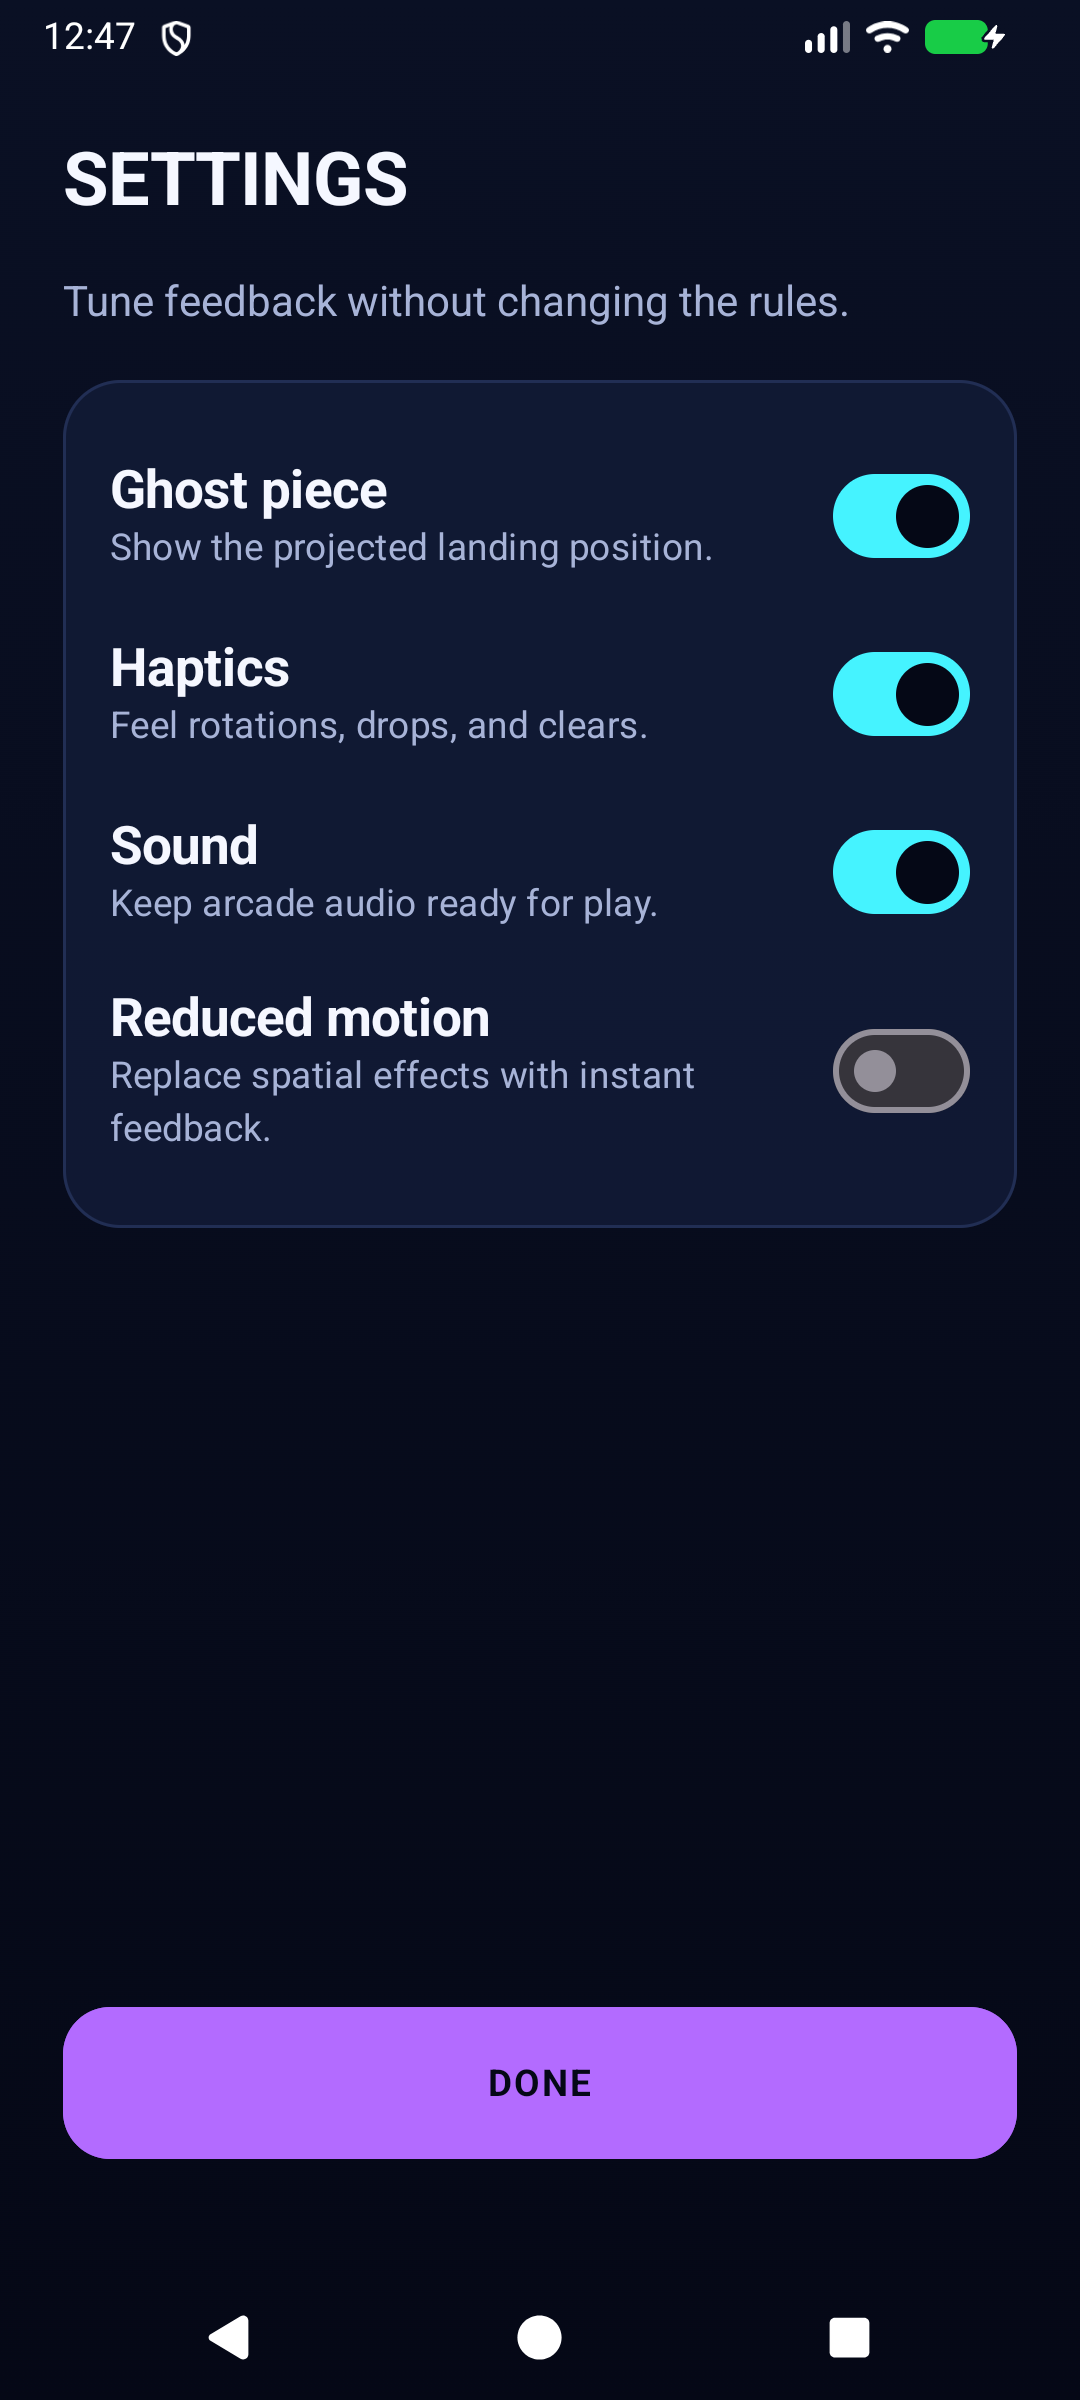
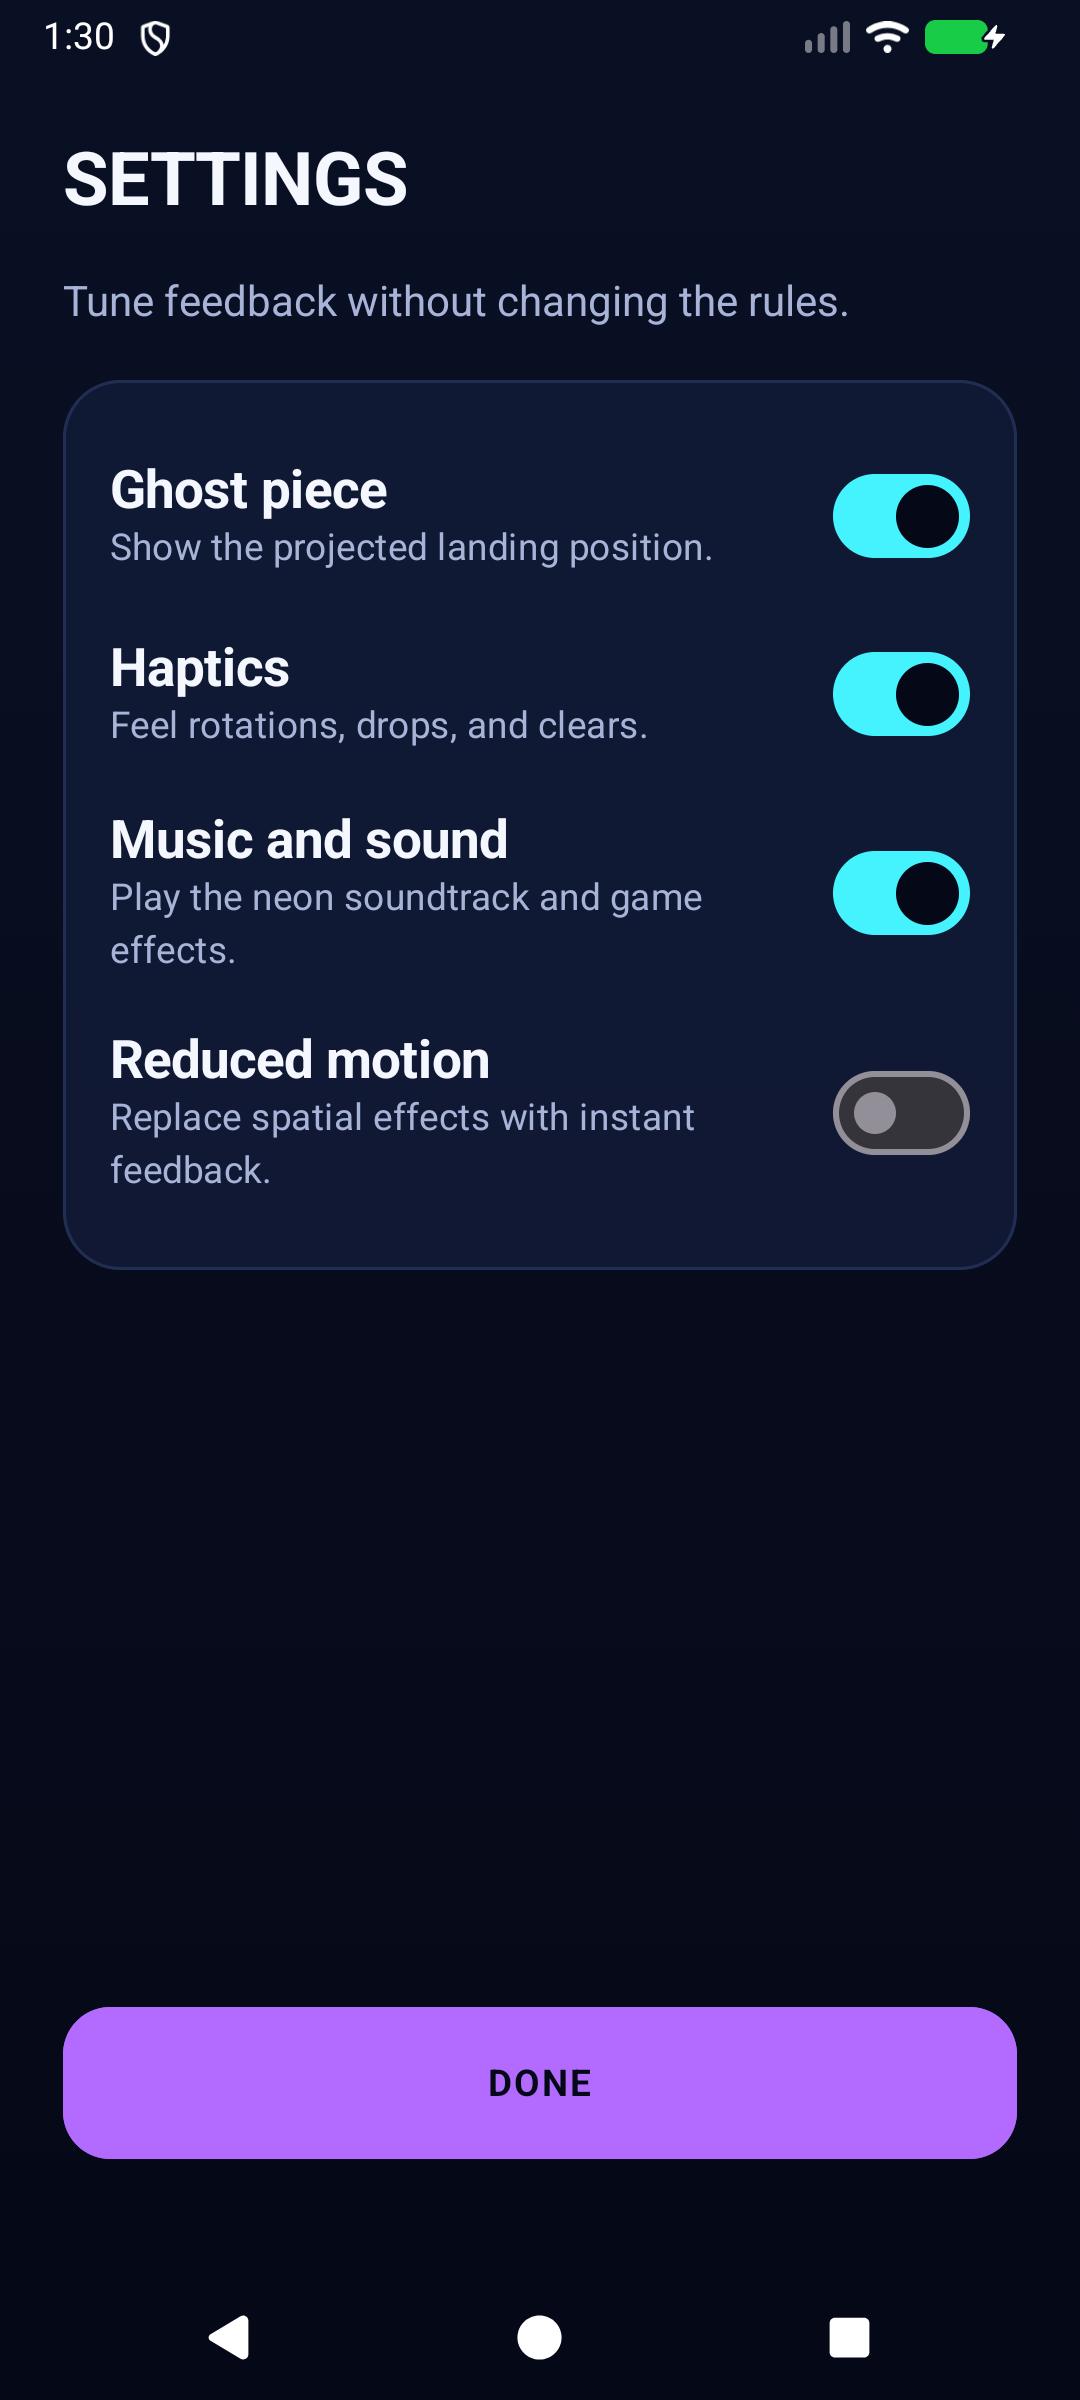
feat: improve game controls and add soundtrack

diff --git a/app/src/main/java/com/himugupta/neontetris/ui/game/GameScreen.kt b/app/src/main/java/com/himugupta/neontetris/ui/game/GameScreen.kt
@@ -14,6 +14,7 @@ import androidx.compose.animation.fadeOut
 import androidx.compose.animation.scaleIn
 import androidx.compose.animation.scaleOut
 import androidx.compose.foundation.Canvas
+import androidx.compose.foundation.BorderStroke
 import androidx.compose.foundation.background
 import androidx.compose.foundation.border
 import androidx.compose.foundation.gestures.detectDragGestures
@@ -34,6 +35,17 @@ import androidx.compose.foundation.layout.safeDrawingPadding
 import androidx.compose.foundation.layout.size
 import androidx.compose.foundation.layout.width
 import androidx.compose.foundation.shape.RoundedCornerShape
+import androidx.compose.material.icons.Icons
+import androidx.compose.material.icons.rounded.ArrowBack
+import androidx.compose.material.icons.rounded.ArrowDownward
+import androidx.compose.material.icons.rounded.ArrowForward
+import androidx.compose.material.icons.rounded.Pause
+import androidx.compose.material.icons.rounded.RotateLeft
+import androidx.compose.material.icons.rounded.RotateRight
+import androidx.compose.material.icons.rounded.VerticalAlignBottom
+import androidx.compose.material3.Button
+import androidx.compose.material3.ButtonDefaults
+import androidx.compose.material3.Icon
 import androidx.compose.material3.MaterialTheme
 import androidx.compose.material3.Text
 import androidx.compose.runtime.Composable
@@ -53,7 +65,7 @@ import androidx.compose.ui.graphics.Brush
 import androidx.compose.ui.graphics.Color
 import androidx.compose.ui.graphics.drawscope.DrawScope
 import androidx.compose.ui.graphics.drawscope.Stroke
-import androidx.compose.ui.graphics.drawscope.translate
+import androidx.compose.ui.graphics.vector.ImageVector
 import androidx.compose.ui.input.pointer.pointerInput
 import androidx.compose.ui.hapticfeedback.HapticFeedbackType
 import androidx.compose.ui.platform.LocalHapticFeedback
@@ -66,10 +78,10 @@ import androidx.lifecycle.LifecycleEventObserver
 import androidx.lifecycle.compose.LocalLifecycleOwner
 import androidx.lifecycle.compose.collectAsStateWithLifecycle
 import androidx.lifecycle.viewmodel.compose.viewModel
+import com.himugupta.neontetris.audio.GameMusicPlayer
 import com.himugupta.neontetris.core.game.BoardHeight
 import com.himugupta.neontetris.core.game.BoardWidth
 import com.himugupta.neontetris.core.game.CellPosition
-import com.himugupta.neontetris.core.game.FallingPiece
 import com.himugupta.neontetris.core.game.GameAction
 import com.himugupta.neontetris.core.game.GameState
 import com.himugupta.neontetris.core.game.GameStatus
@@ -102,9 +114,21 @@ fun GameScreen(
   val lifecycleOwner = LocalLifecycleOwner.current
   val hapticFeedback = LocalHapticFeedback.current
   val toneGenerator = remember { ToneGenerator(AudioManager.STREAM_MUSIC, 28) }
+  val musicPlayer = remember { GameMusicPlayer() }
 
-  DisposableEffect(toneGenerator) {
-    onDispose { toneGenerator.release() }
+  DisposableEffect(toneGenerator, musicPlayer) {
+    onDispose {
+      toneGenerator.release()
+      musicPlayer.release()
+    }
+  }
+
+  LaunchedEffect(preferences.soundEnabled, state.status) {
+    if (preferences.soundEnabled && state.status == GameStatus.Playing) {
+      musicPlayer.play()
+    } else {
+      musicPlayer.pause()
+    }
   }
 
   val dispatchWithFeedback: (GameAction) -> Unit = { action ->
@@ -226,7 +250,13 @@ private fun GameHud(state: GameState, onPause: () -> Unit) {
     HudValue("SCORE", state.score.toString(), Modifier.weight(1.5f))
     HudValue("LEVEL", state.level.toString(), Modifier.weight(1f))
     HudValue("LINES", state.lines.toString(), Modifier.weight(1f))
-    ControlButton("II", "Pause game", onPause, Modifier.size(52.dp), NeonPink)
+    IconControlButton(
+      icon = Icons.Rounded.Pause,
+      description = "Pause game",
+      onClick = onPause,
+      modifier = Modifier.size(52.dp),
+      accent = NeonPink,
+    )
   }
 }
 
@@ -455,35 +485,122 @@ private fun DrawScope.drawNeonCell(
 
 @Composable
 private fun GameControls(onAction: (GameAction) -> Unit) {
-  Column(verticalArrangement = Arrangement.spacedBy(8.dp)) {
+  Column(
+    modifier =
+      Modifier.fillMaxWidth()
+        .background(Panel.copy(alpha = 0.82f), RoundedCornerShape(24.dp))
+        .border(1.dp, GridLine, RoundedCornerShape(24.dp))
+        .padding(8.dp),
+    verticalArrangement = Arrangement.spacedBy(8.dp),
+  ) {
     Row(Modifier.fillMaxWidth(), horizontalArrangement = Arrangement.spacedBy(8.dp)) {
-      ControlButton("HOLD", "Hold piece", { onAction(GameAction.Hold) }, Modifier.weight(1f))
-      ControlButton("CCW", "Rotate counter-clockwise", { onAction(GameAction.RotateCounterClockwise) }, Modifier.weight(1f), NeonViolet)
-      ControlButton("CW", "Rotate clockwise", { onAction(GameAction.RotateClockwise) }, Modifier.weight(1f), NeonViolet)
-      ControlButton("DROP", "Hard drop", { onAction(GameAction.HardDrop) }, Modifier.weight(1f), NeonPink)
+      TextControlButton(
+        label = "HOLD",
+        description = "Hold piece",
+        onClick = { onAction(GameAction.Hold) },
+        modifier = Modifier.weight(0.9f),
+        accent = NeonBlue,
+        height = 54.dp,
+      )
+      IconControlButton(
+        icon = Icons.Rounded.RotateLeft,
+        description = "Rotate counter-clockwise",
+        onClick = { onAction(GameAction.RotateCounterClockwise) },
+        modifier = Modifier.weight(0.72f),
+        accent = NeonViolet,
+        height = 54.dp,
+      )
+      IconControlButton(
+        icon = Icons.Rounded.RotateRight,
+        description = "Rotate clockwise",
+        onClick = { onAction(GameAction.RotateClockwise) },
+        modifier = Modifier.weight(0.72f),
+        accent = NeonViolet,
+        height = 54.dp,
+      )
+      IconControlButton(
+        icon = Icons.Rounded.VerticalAlignBottom,
+        label = "DROP",
+        description = "Hard drop",
+        onClick = { onAction(GameAction.HardDrop) },
+        modifier = Modifier.weight(1.2f),
+        accent = NeonPink,
+        height = 54.dp,
+      )
     }
     Row(Modifier.fillMaxWidth(), horizontalArrangement = Arrangement.spacedBy(8.dp)) {
-      ControlButton("LEFT", "Move left", { onAction(GameAction.MoveLeft) }, Modifier.weight(1f))
-      ControlButton("DOWN", "Soft drop", { onAction(GameAction.SoftDrop) }, Modifier.weight(1f), NeonGreen)
-      ControlButton("RIGHT", "Move right", { onAction(GameAction.MoveRight) }, Modifier.weight(1f))
+      IconControlButton(
+        icon = Icons.Rounded.ArrowBack,
+        description = "Move left",
+        onClick = { onAction(GameAction.MoveLeft) },
+        modifier = Modifier.weight(1f),
+        height = 66.dp,
+      )
+      IconControlButton(
+        icon = Icons.Rounded.ArrowDownward,
+        description = "Soft drop",
+        onClick = { onAction(GameAction.SoftDrop) },
+        modifier = Modifier.weight(1.25f),
+        accent = NeonGreen,
+        height = 66.dp,
+      )
+      IconControlButton(
+        icon = Icons.Rounded.ArrowForward,
+        description = "Move right",
+        onClick = { onAction(GameAction.MoveRight) },
+        modifier = Modifier.weight(1f),
+        height = 66.dp,
+      )
     }
   }
 }
 
 @Composable
-private fun ControlButton(
+private fun TextControlButton(
   label: String,
   description: String,
   onClick: () -> Unit,
   modifier: Modifier = Modifier,
   accent: Color = MaterialTheme.colorScheme.primary,
+  height: androidx.compose.ui.unit.Dp = 58.dp,
 ) {
-  NeonButton(
-    text = label,
+  Button(
     onClick = onClick,
-    modifier = modifier.semantics { contentDescription = description },
-    accent = accent,
-  )
+    modifier = modifier.height(height).semantics { contentDescription = description },
+    shape = RoundedCornerShape(18.dp),
+    colors = ButtonDefaults.buttonColors(containerColor = accent, contentColor = MaterialTheme.colorScheme.onPrimary),
+    border = BorderStroke(1.dp, accent.copy(alpha = 0.86f)),
+  ) {
+    Text(label, style = MaterialTheme.typography.labelLarge)
+  }
+}
+
+@Composable
+private fun IconControlButton(
+  icon: ImageVector,
+  description: String,
+  onClick: () -> Unit,
+  modifier: Modifier = Modifier,
+  label: String? = null,
+  accent: Color = MaterialTheme.colorScheme.primary,
+  height: androidx.compose.ui.unit.Dp? = null,
+) {
+  Button(
+    onClick = onClick,
+    modifier = modifier.then(if (height != null) Modifier.height(height) else Modifier).semantics {
+      contentDescription = description
+    },
+    shape = RoundedCornerShape(18.dp),
+    colors = ButtonDefaults.buttonColors(containerColor = accent, contentColor = MaterialTheme.colorScheme.onPrimary),
+    border = BorderStroke(1.dp, accent.copy(alpha = 0.86f)),
+    contentPadding = androidx.compose.foundation.layout.PaddingValues(horizontal = 8.dp),
+  ) {
+    Icon(icon, contentDescription = null, modifier = Modifier.size(if (label == null) 30.dp else 25.dp))
+    if (label != null) {
+      Spacer(Modifier.width(5.dp))
+      Text(label, style = MaterialTheme.typography.labelLarge)
+    }
+  }
 }
 
 @Composable

diff --git a/app/src/main/java/com/himugupta/neontetris/audio/GameMusicPlayer.kt b/app/src/main/java/com/himugupta/neontetris/audio/GameMusicPlayer.kt
@@ -1,0 +1,112 @@
+package com.himugupta.neontetris.audio
+
+import android.media.AudioAttributes
+import android.media.AudioFormat
+import android.media.AudioTrack
+import kotlin.math.PI
+import kotlin.math.pow
+import kotlin.math.sin
+
+class GameMusicPlayer {
+  private var audioTrack: AudioTrack? = null
+
+  fun play() {
+    runCatching {
+      val track = audioTrack ?: createTrack().also { audioTrack = it }
+      if (track.playState != AudioTrack.PLAYSTATE_PLAYING) track.play()
+    }
+  }
+
+  fun pause() {
+    runCatching {
+      audioTrack?.takeIf { it.playState == AudioTrack.PLAYSTATE_PLAYING }?.pause()
+    }
+  }
+
+  fun release() {
+    runCatching { audioTrack?.release() }
+    audioTrack = null
+  }
+
+  private fun createTrack(): AudioTrack {
+    val samples = buildLoop()
+    return AudioTrack.Builder()
+      .setAudioAttributes(
+        AudioAttributes.Builder()
+          .setUsage(AudioAttributes.USAGE_GAME)
+          .setContentType(AudioAttributes.CONTENT_TYPE_MUSIC)
+          .build(),
+      )
+      .setAudioFormat(
+        AudioFormat.Builder()
+          .setEncoding(AudioFormat.ENCODING_PCM_16BIT)
+          .setSampleRate(SampleRate)
+          .setChannelMask(AudioFormat.CHANNEL_OUT_MONO)
+          .build(),
+      )
+      .setTransferMode(AudioTrack.MODE_STATIC)
+      .setBufferSizeInBytes(samples.size * Short.SIZE_BYTES)
+      .build()
+      .apply {
+        write(samples, 0, samples.size)
+        setLoopPoints(0, samples.size, -1)
+        setVolume(MusicVolume)
+      }
+  }
+
+  private fun buildLoop(): ShortArray {
+    val stepSamples = (SampleRate * 60f / BeatsPerMinute / 2f).toInt()
+    val result = ShortArray(LeadNotes.size * stepSamples)
+
+    LeadNotes.forEachIndexed { step, midiNote ->
+      val bassNote = BassNotes[(step / 4) % BassNotes.size]
+      for (sampleInStep in 0 until stepSamples) {
+        val index = step * stepSamples + sampleInStep
+        val time = index.toDouble() / SampleRate
+        val envelopePosition = sampleInStep.toFloat() / stepSamples
+        val envelope = when {
+          envelopePosition < 0.06f -> envelopePosition / 0.06f
+          envelopePosition > 0.82f -> (1f - envelopePosition) / 0.18f
+          else -> 1f
+        }.coerceIn(0f, 1f)
+
+        val lead = if (midiNote < 0) 0.0 else squareWave(time, midiToFrequency(midiNote)) * 0.56
+        val bass = triangleWave(time, midiToFrequency(bassNote)) * 0.34
+        val pulse = sin(2.0 * PI * 2.0 * time) * 0.04
+        result[index] = ((lead + bass + pulse) * envelope * Short.MAX_VALUE * 0.72).toInt()
+          .coerceIn(Short.MIN_VALUE.toInt(), Short.MAX_VALUE.toInt())
+          .toShort()
+      }
+    }
+    return result
+  }
+
+  private fun squareWave(time: Double, frequency: Double): Double =
+    if (sin(2.0 * PI * frequency * time) >= 0.0) 1.0 else -1.0
+
+  private fun triangleWave(time: Double, frequency: Double): Double {
+    val phase = (time * frequency) % 1.0
+    return 1.0 - 4.0 * kotlin.math.abs(phase - 0.5)
+  }
+
+  private fun midiToFrequency(note: Int): Double = 440.0 * 2.0.pow((note - 69) / 12.0)
+
+  private companion object {
+    const val SampleRate = 22_050
+    const val BeatsPerMinute = 142f
+    const val MusicVolume = 0.11f
+
+    val LeadNotes = intArrayOf(
+      76, 71, 72, 74, 72, 71, 69, 69,
+      72, 76, 74, 72, 71, 71, 72, 74,
+      76, 72, 69, 69, -1, 74, 77, 81,
+      79, 77, 76, 72, 76, 74, 72, 71,
+      71, 72, 74, 76, 72, 69, 69, -1,
+      74, 77, 81, 79, 77, 76, 72, 76,
+      74, 72, 71, 71, 72, 74, 76, 72,
+      69, 69, -1, 69, 72, 76, 74, 72,
+    )
+
+    val BassNotes = intArrayOf(40, 47, 45, 43, 40, 45, 47, 43, 40, 47, 45, 43, 40, 45, 47, 35)
+  }
+}

diff --git a/app/src/main/java/com/himugupta/neontetris/ui/settings/SettingsScreen.kt b/app/src/main/java/com/himugupta/neontetris/ui/settings/SettingsScreen.kt
@@ -51,7 +51,7 @@ fun SettingsScreen(
         SettingsRow("Haptics", "Feel rotations, drops, and clears.") {
           Switch(preferences.hapticsEnabled, repository::setHapticsEnabled)
         }
-        SettingsRow("Sound", "Keep arcade audio ready for play.") {
+        SettingsRow("Music and sound", "Play the neon soundtrack and game effects.") {
           Switch(preferences.soundEnabled, repository::setSoundEnabled)
         }
         SettingsRow("Reduced motion", "Replace spatial effects with instant feedback.") {

diff --git a/README.md b/README.md
@@ -33,16 +33,17 @@ Neon Tetris is a polished falling-block puzzle game for Android, built with Kotl
 - Ghost-piece fade, landing pulse, line-clear flash and collapse, score popups, combo treatment, and level-up transition.
 - Animated home, pause, and game-over surfaces with consistent button press states.
 - Optional haptic feedback for rotate, hard drop, line clear, and game over.
+- Looping procedural neon chiptune with lightweight game effects.
 - Reduced-motion mode that replaces spatial effects with opacity and color feedback.
 
 ## Controls
 
 | Action | Touch control |
 | --- | --- |
-| Move | Left and right buttons or horizontal swipe |
-| Soft drop | Down button or downward drag |
-| Hard drop | Dedicated drop button or quick downward fling |
-| Rotate | Clockwise and counter-clockwise buttons or tap gesture |
+| Move | Large left and right arrow buttons or horizontal swipe |
+| Soft drop | Large down-arrow button or downward drag |
+| Hard drop | Pink drop action or quick downward fling |
+| Rotate | Rotate-left and rotate-right icon buttons or tap gesture |
 | Hold | Hold button near the playfield |
 | Pause | Pause button in the game HUD |
 